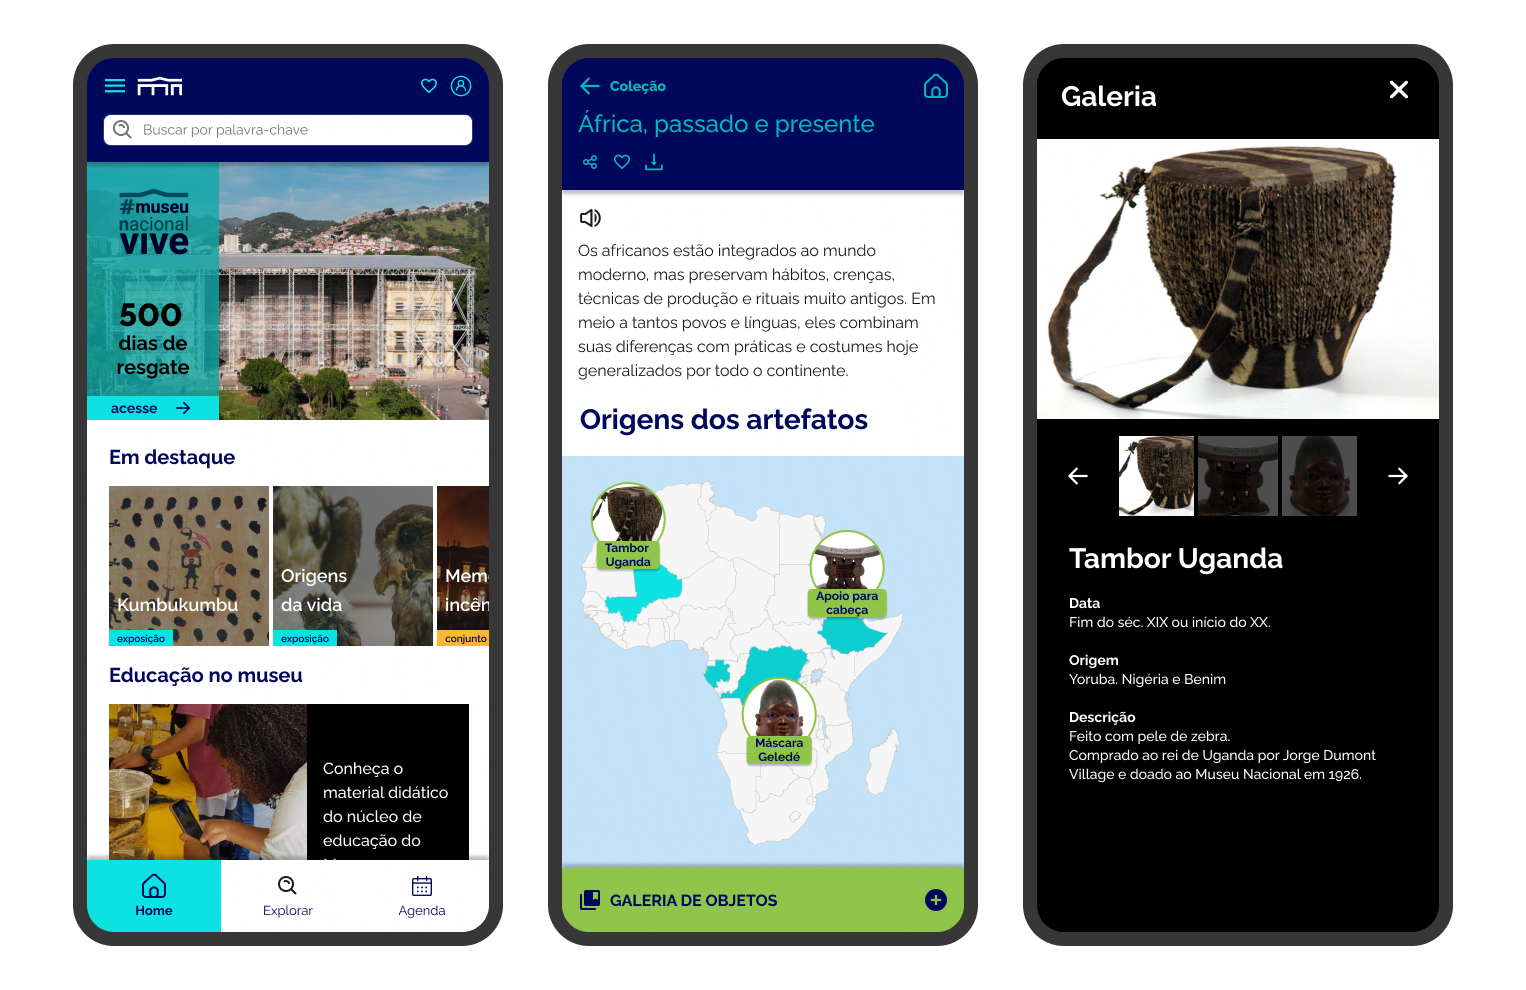
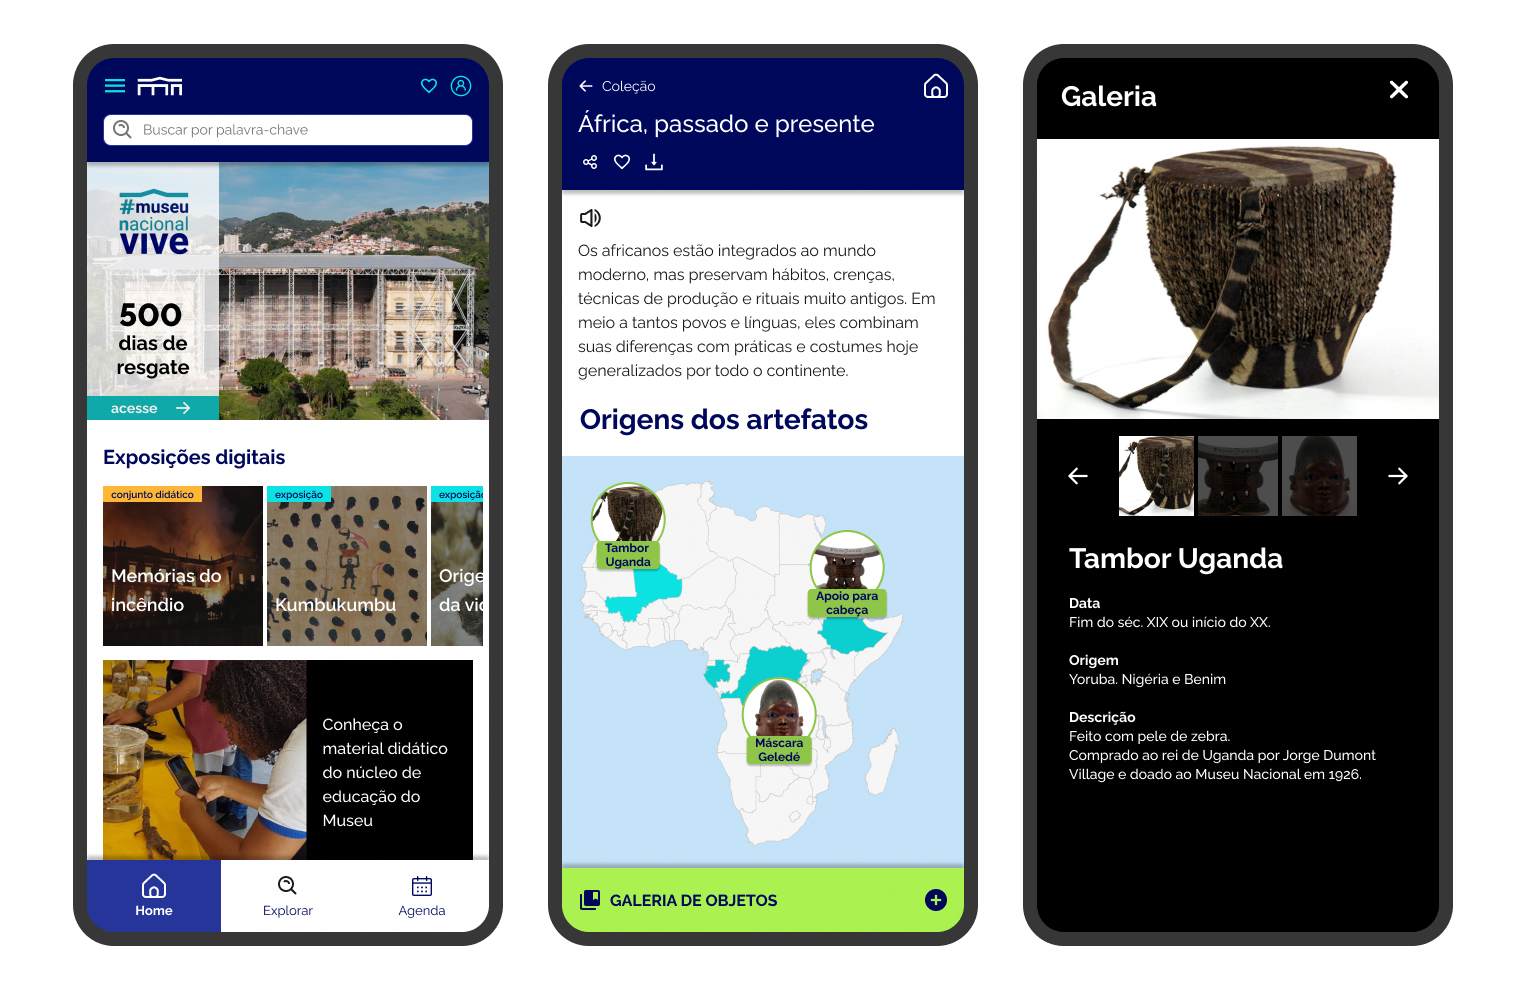
images adjustment

diff --git a/pages/museum-app.html b/pages/museum-app.html
@@ -128,6 +128,16 @@
             Beyond designing, this project taught me how to adapt and make new
             meanings in times of crisis.
           </p>
+
+                    <figure class="article-image">
+            <img
+              src="../images/museu/museum-before-after.png"
+              alt="Museum before and after the fire"
+            />
+            <figcaption>
+              Museum before and after the fire Roberto Sayão/El País
+            </figcaption>
+          </figure>
         </section>
 
         <section class="content-section">
@@ -147,15 +157,17 @@
             in public education well beyond the physical space and the burned
             collections.
           </p>
-          <figure class="article-image">
+                    <figure class="article-image">
             <img
-              src="../images/museu/museum-before-after.png"
-              alt="Museum before and after the fire"
+              src="../images/museu/educacao museu.png"
+              alt="Educational activities and programs at the museum. Photo by Anna Bayer/MN"
             />
             <figcaption>
-              Museum before and after the fire Roberto Sayão/El País
+              Educational activities and community programs continued
+              despite the physical closure.
             </figcaption>
           </figure>
+
         </section>
 
         <section class="content-section">
@@ -184,7 +196,7 @@
         </section>
 
         <section class="content-section">
-          <h2>Opportunities for the Project</h2>
+          <h2>Project opportunities and design approach</h2>
           <p>
             The app can expand the museum's educational reach beyond artifacts
             by offering teachers virtual tours, customizable lessons, and other
@@ -192,31 +204,18 @@
             museum, making it a digital learning hub accessible anytime,
             anywhere.
           </p>
-          <figure class="article-image">
-            <img
-              src="../images/museu/educacao museu.png"
-              alt="Educational activities and programs at the museum. Photo by Anna Bayer/MN"
-            />
-            <figcaption>
-              Educational activities and community programs that continued
-              despite the physical closure.
-            </figcaption>
-          </figure>
-        </section>
 
-        <section class="content-section">
-          <h2>Designing the Solution</h2>
           <p>
             The research pointed to four distinct user groups, each with a
-            different relationship to the museum: the <strong>teacher</strong>,
-            who uses museum content to educate students; the
-            <strong>student</strong>, who consumes the app's educational
-            features; the <strong>researcher</strong>, typically a university
-            student who leverages the museum's knowledge and collections for
-            academic work; and the <strong>museum education staff</strong>,
-            responsible for creating lessons and maintaining the network between
-            the museum and schools.
+            different relationship to the museum:
           </p>
+                    <figure class="article-image">
+            <img
+              src="../images/museu/Personas.png"
+              alt="APP personas"
+            />
+
+          </figure>
           <p>
             The app was designed to serve all four. Anyone can browse the
             museum's collections (botanic, zoological, archaeological...), but the
@@ -297,12 +296,6 @@
             />
             <figcaption>
               Teachers could have access to educational material to use in class
-              <a
-                href="https://www.figma.com/proto/gUKZ10MMb9N70iFBkyZSsd/Projeto-mn---vf?page-id=0%3A1&node-id=299-1490&p=f&viewport=557%2C-289%2C0.06&t=4HfKUz4H9rkhgZ49-1&scaling=scale-down&content-scaling=fixed&starting-point-node-id=299%3A1490"
-                target="_blank"
-                rel="noopener"
-                >View Figma Prototype</a
-              >
             </figcaption>
           </figure>
         </section>

diff --git a/pages/scientific-research.html b/pages/scientific-research.html
@@ -115,8 +115,8 @@
                         system had to accommodate very different needs into one single form.
                     </p>
                     <figure class="article-image">
-                        <img src="../images/pnipe/Pnipe - visoes de usuario.svg" alt="User journey mapping">
-                        <figcaption>User journeys mapping to reveal workflows and collaboration features in the
+                        <img src="../images/pnipe/visoes de usuario.png" alt="User journey mapping">
+                        <figcaption>Example of Lab staff journey mapping illustrating equipment and collaboration user flows in the
                             platform.</figcaption>
                     </figure>
                     <h3>Collaborative design process</h3>
